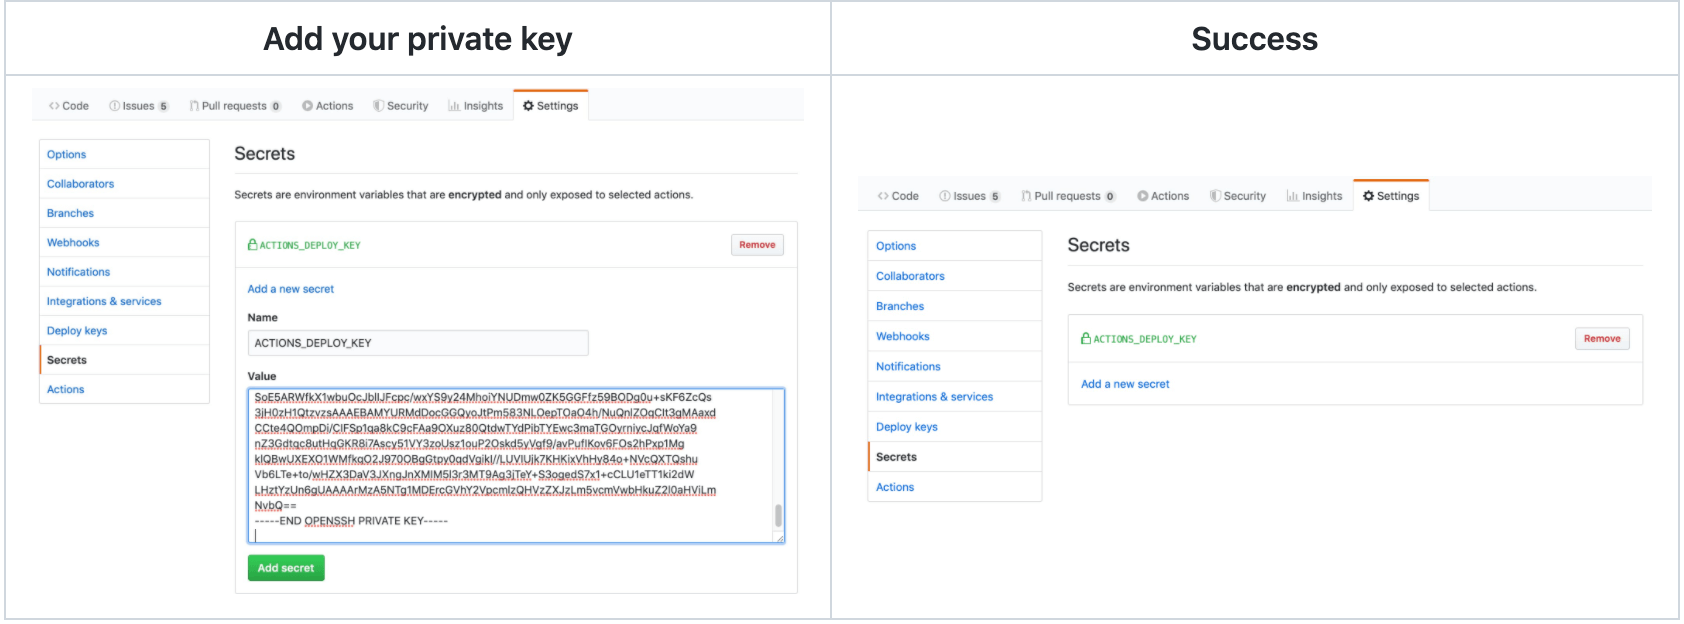
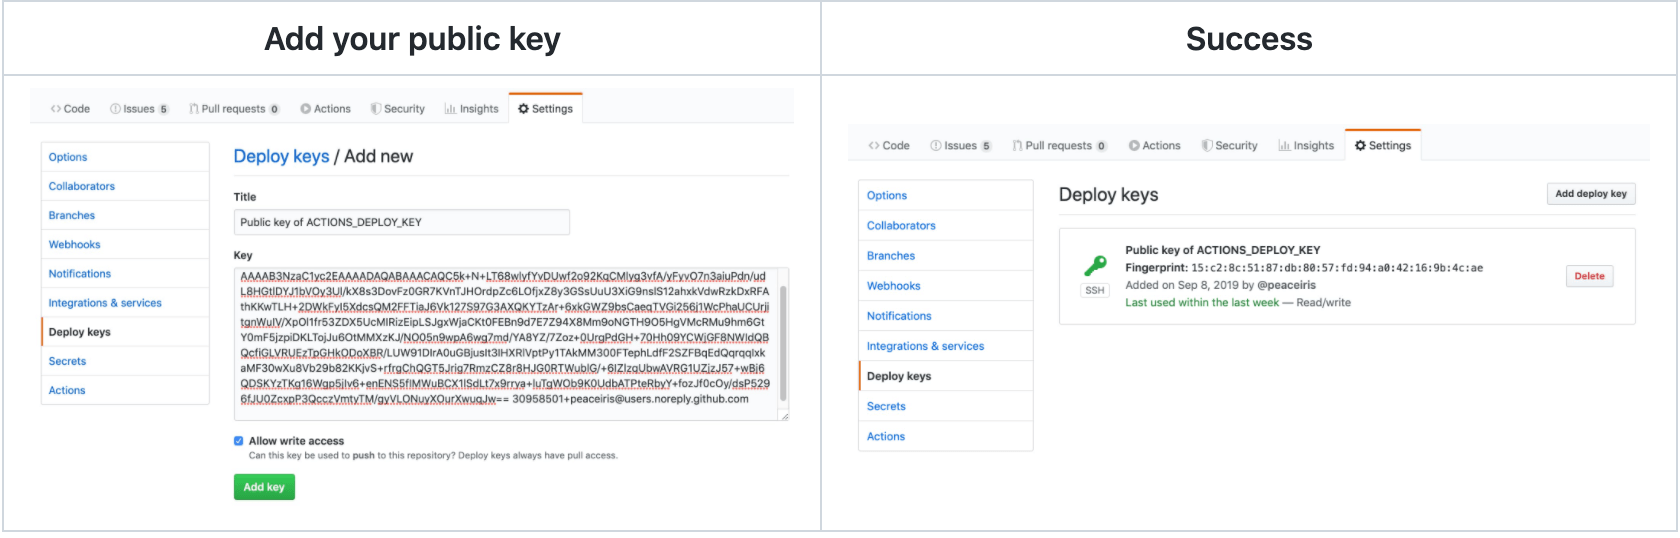
deploy: JerryJZhang/hugojerryblogcode@1e23add3d8cec57132ca1e959a14d6a0570843e1

diff --git a/posts/hosting-your-website-for-free-with-github-pages-and-hugo/index.html b/posts/hosting-your-website-for-free-with-github-pages-and-hugo/index.html
@@ -215,19 +215,19 @@ Hosting Your Website For Free With GitHub Pages and Hugo
 <span style="margin-right:.4em;padding:0 .4em;color:#7f7f7f">4</span><span style=color:#6272a4>#   gh-pages     (private key)</span>
 </code></pre></div><p>The public key goes to the private repo. The private key goes to the public repo.</p>
 <p><strong><em>Re-read that just in case you didn&rsquo;t get it.</em></strong> It&rsquo;s easy to make a mistake here especially because both steps look almost the same, so be extra careful. I&rsquo;ll provide all screenshots just to make sure you&rsquo;ll get it right.</p>
-<p>Let&rsquo;s start with adding the <strong>public</strong> key to the <strong>private</strong> repo:</p>
+<p>Let&rsquo;s start with adding the <strong>private</strong> key to the <strong>private</strong> repo:</p>
 <ol>
 <li>Navigate to your private repo, and click on &ldquo;Settings&rdquo;. <img src=gh-pages-4a.png alt></li>
 <li>Click on &ldquo;Secrets&rdquo;. <img src=gh-pages-4b.png alt></li>
 <li>Click on &ldquo;New repository secret&rdquo;. <img src=gh-pages-4c.png alt></li>
-<li>Finally, add your <strong>public</strong> key, and be sure to check the box &ldquo;Allow write access&rdquo;. <img src=gh-pages-4d.png alt></li>
+<li>Finally, add your <strong>private</strong> key. <img src=gh-pages-4d.png alt></li>
 </ol>
-<p>Let&rsquo;s then add the <strong>private</strong> key to the <strong>public</strong> repo:</p>
+<p>Let&rsquo;s then add the <strong>public</strong> key to the <strong>public</strong> repo:</p>
 <ol>
 <li>Navigate to your public repo, and click on &ldquo;Settings.&rdquo; <img src=gh-pages-4e.png alt></li>
 <li>Click on &ldquo;Deploy keys&rdquo;. <img src=gh-pages-4f.png alt></li>
 <li>Click on &ldquo;Add deploy key&rdquo;. <img src=gh-pages-4g.png alt></li>
-<li>Finally, add your <strong>private</strong> key. <img src=gh-pages-4h.png alt></li>
+<li>Finally, add your <strong>public</strong> key, and be sure to check the box &ldquo;Allow write access&rdquo;. <img src=gh-pages-4h.png alt></li>
 </ol>
 <p>After the next step, this will allow our private repo to make commits to the public repo. This allows us to keep our pre-processed files private.</p>
 <h3 id=github-action>5. Setup GitHub Action</h3>
